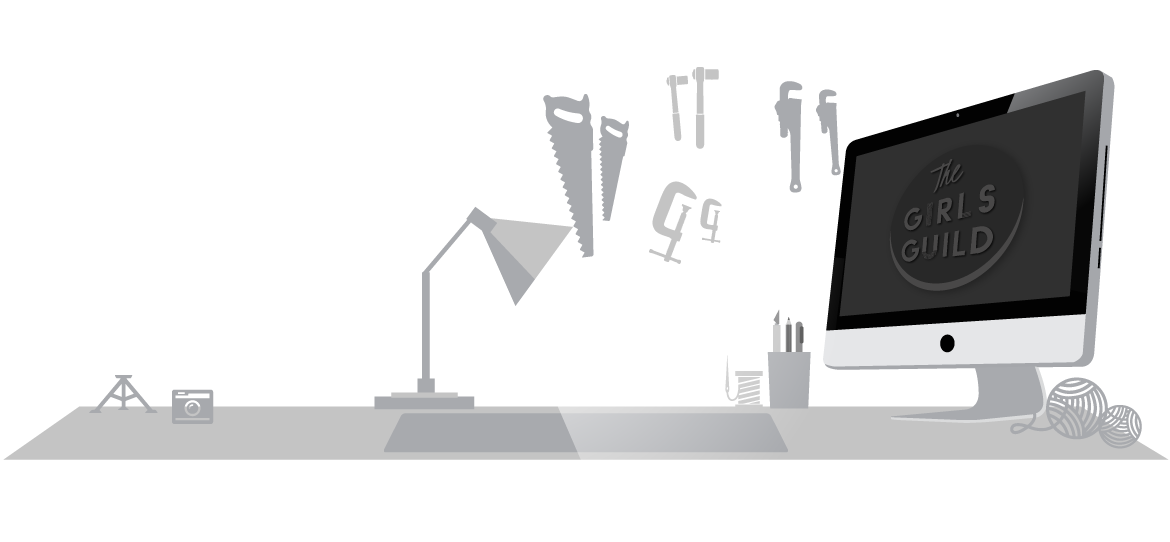
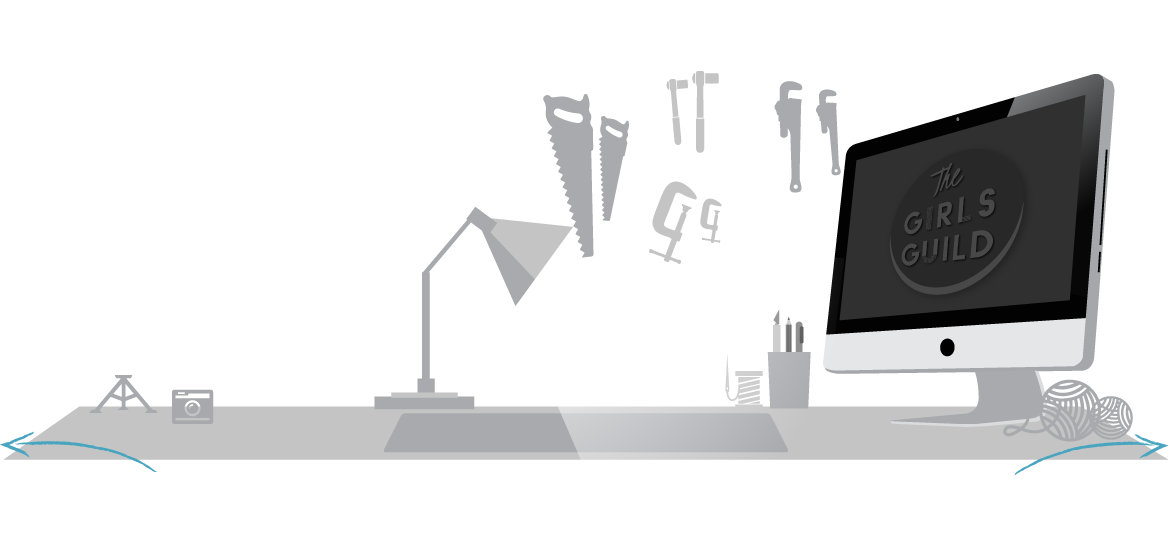
Re-do the Homepage slides, and tweak homepage shit

diff --git a/app/assets/stylesheets/custom.css.sass b/app/assets/stylesheets/custom.css.sass
@@ -238,6 +238,7 @@ a, a:hover, a:active, a:visited, a:focus
   background-color: #EFEFEF
 
 .hero-unit
+  padding: 80px
   p
     line-height: 24px
 
@@ -533,18 +534,25 @@ input[type="radio"], input[type="checkbox"]
       text-transform: uppercase
       font-size: 27px
       letter-spacing: 3px
-      margin: 20px 0
+      margin: 10px 0
       font-weight: 500
+      line-height: 30px
+      color: $plum-shadow
     .btn-primary
       font-size: 22px
       font-weight: 500
   .carousel
     margin-bottom: 0px
+    .learning
+      p
+        font-size: 14px
+    .well
+      margin-top: 15px
     .carousel-control
       height: 230px
       width: 30px
     .item
-      height: 425px
+      //height: 425px
     .overview
       background: url(banners/hmpg-spotlight-overview.png) repeat-x center center transparent
     .learning
@@ -552,8 +560,8 @@ input[type="radio"], input[type="checkbox"]
     .leading
       background: url(banners/hmpg-spotlight-lead.png) repeat-x center center transparent
   .socials
-    height: 80px
-    width: 200px
+    height: 40px
+    width: 260px
   #goals
     padding: 0 0
     position: static
@@ -573,12 +581,10 @@ input[type="radio"], input[type="checkbox"]
         font-size: 38px
         display: inline
       hr
-        position: relative
-        margin: 0 0
-        top: 25px
+        margin: 11px 0
       .icon-3x
         position: relative
-        color: #333
+        color: $mint
       ul
         margin: 0
         li
@@ -587,6 +593,7 @@ input[type="radio"], input[type="checkbox"]
           font-weight: bold
           color: $mint
           text-transform: uppercase
+          line-height: 33px
       h2
         +dosis-caps
         font-size: 45px
@@ -627,10 +634,19 @@ input[type="radio"], input[type="checkbox"]
           font-weight: 500
   #newsletter
     background-color: #323232
-    .getfirstdibs
-      background: url(getfirstdibs.png) no-repeat center right transparent
+    form
+      position: relative
+      z-index: 1
+    .stayuptodate
+      position: relative
+      z-index: 0
+      top: -40px
+      left: -230px
+      background: url(stayuptodate.png) no-repeat center right transparent
       width: 439px
       height: 85px
+      p
+        display: none
     .signup
       margin-top: 25px
       .bttn-newsletter
@@ -643,6 +659,13 @@ input[type="radio"], input[type="checkbox"]
       text-align: center
       margin-top: -15px
       text-shadow: 1px 1px 1px #000
+  #event-previews
+    h3
+      display: inline
+    a.more-events
+      float: right
+      font-weight: bold
+      margin-top: -35px
   #mission
     .well
       background: #FFF

diff --git a/app/assets/stylesheets/theme.css b/app/assets/stylesheets/theme.css
@@ -273,7 +273,7 @@ figure {
   -webkit-box-shadow: 0 0 10px rgba(51, 51, 51, 0.9) inset;
   -moz-box-shadow: 0 0 10px rgba(51, 51, 51, 0.9) inset;
   box-shadow: 0 0 10px rgba(51, 51, 51, 0.9) inset;
-  border: 10px solid #eeeeee;
+  border: 10px solid #777;
   -webkit-transition: all 0.2s;
   -moz-transition: all 0.2s;
   -o-transition: all 0.2s;
@@ -290,15 +290,15 @@ figure {
   -ms-border-radius: 50%;
   -o-border-radius: 50%;
   border-radius: 50%;
-  opacity: .4;
-  -ms-filter: "progid:DXImageTransform.Microsoft.Alpha(Opacity=30)";
+  opacity: .8;
+  -ms-filter: "progid:DXImageTransform.Microsoft.Alpha(Opacity=80)";
 }
 .blockquote-fancy:hover .blockquote-img {
   border-color: rgba(153, 153, 153, 0.3);
 }
 .blockquote-fancy:hover .blockquote-img img {
-  opacity: .8;
-  -ms-filter: "progid:DXImageTransform.Microsoft.Alpha(Opacity=80)";
+  opacity: .6;
+  -ms-filter: "progid:DXImageTransform.Microsoft.Alpha(Opacity=60)";
 }
 .blockquote-fancy a {
   font-size: 24px;
@@ -722,7 +722,7 @@ figure {
   background: none;
   border: 0 none;
   top: 50%;
-  color: #333333;
+  color: #41b7d8;
   left: -30px;
   text-align: left;
   width: 20px;
@@ -733,7 +733,7 @@ figure {
   text-align: right;
 }
 .carousel-control:hover {
-  color: #41b7d8;
+  color: #71B99F;
 }
 
 .theme-color-green .carousel-control:hover {
